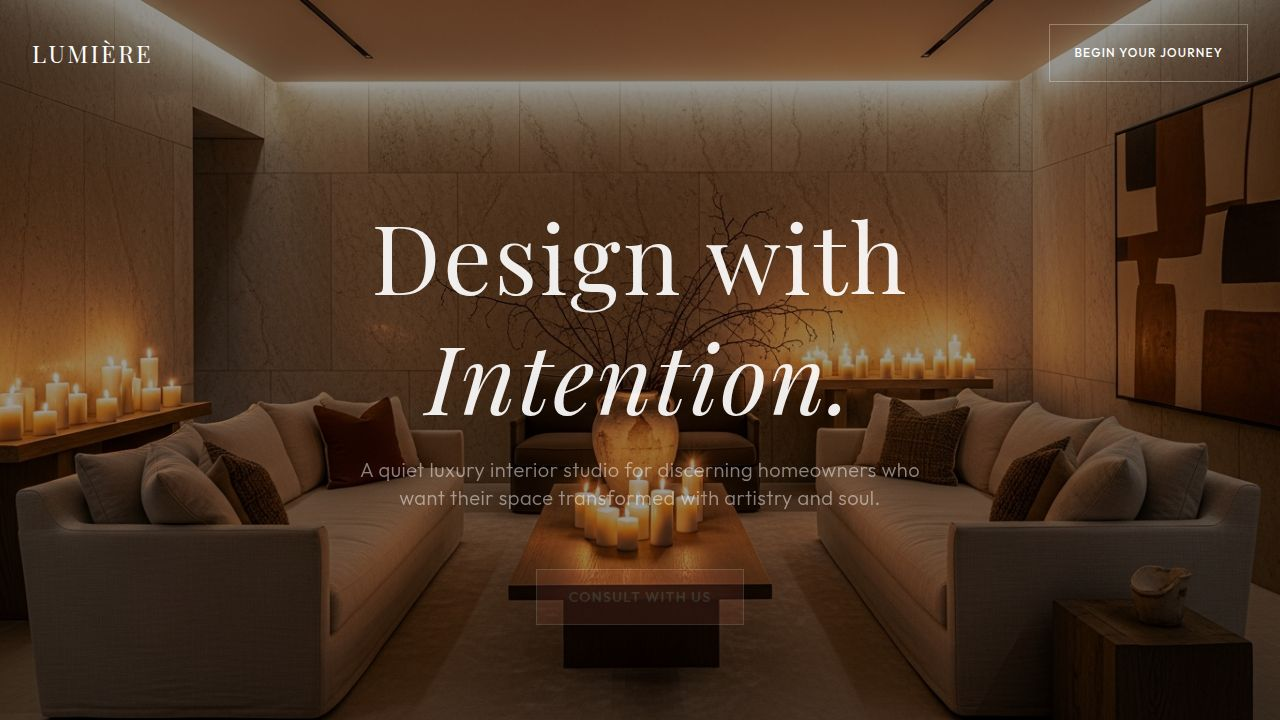
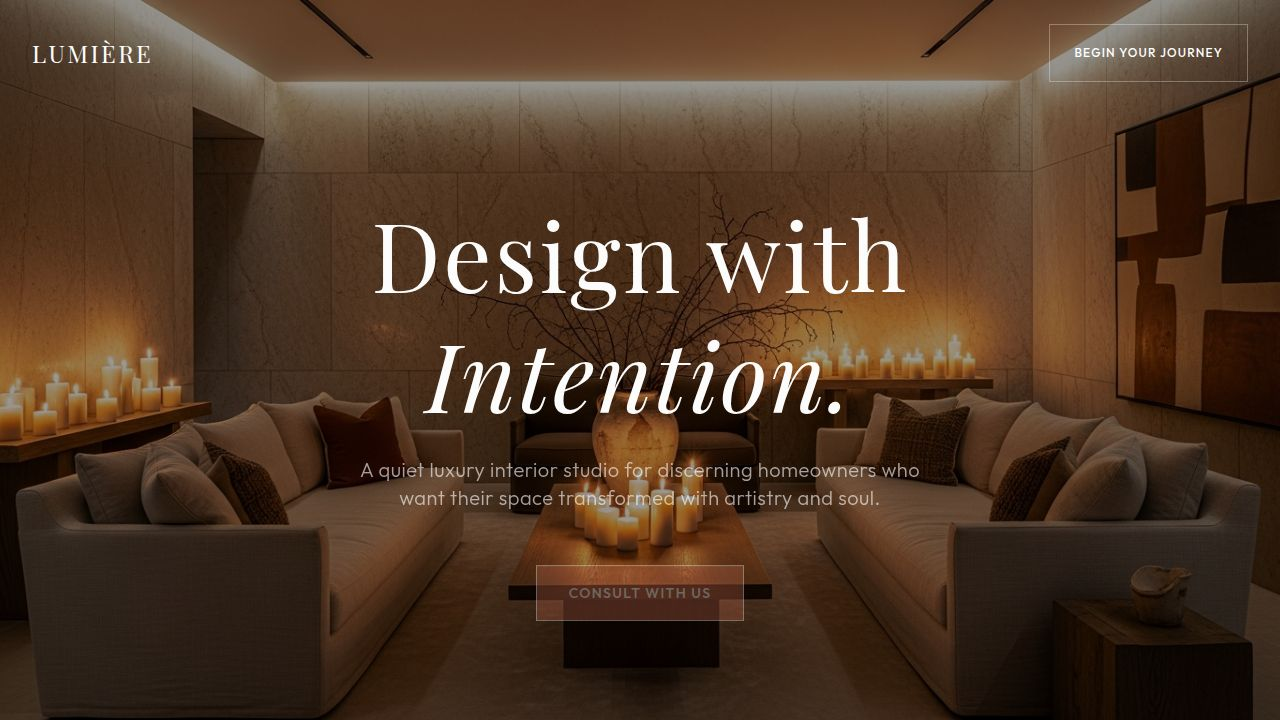
Update Boberdoo integration to use correct API endpoint and data format
Update the Boberdoo API integration to use the correct subdomain for the API endpoint and adjust the request body parameters to match the expected format, improving lead submission success rate.

Replit-Commit-Author: Agent
Replit-Commit-Session-Id: 740adb1c-378a-4e00-9fe8-df232465b6ee
Replit-Commit-Checkpoint-Type: full_checkpoint
Replit-Commit-Event-Id: d803fc4d-b53f-4b82-a37b-c5956c0e1666
Replit-Commit-Screenshot-Url: https://storage.googleapis.com/screenshot-production-us-central1/b2077ca6-2236-47a3-a586-5d26e4336df2/740adb1c-378a-4e00-9fe8-df232465b6ee/u1XT8wa
Replit-Helium-Checkpoint-Created: true

diff --git a/artifacts/api-server/src/lib/boberdoo.ts b/artifacts/api-server/src/lib/boberdoo.ts
@@ -1,7 +1,5 @@
 import { logger } from "./logger";
 
-const BOBERDOO_BASE = "https://www.boberdoo.com/index.php";
-
 function budgetToRange(budget: string): { min: string; max: string } {
   const map: Record<string, { min: string; max: string }> = {
     under_10k: { min: "0", max: "10000" },
@@ -40,41 +38,47 @@ export async function submitBoberdooLead(lead: {
 }): Promise<{ success: boolean; leadId?: string; error?: string }> {
   const apiKey = process.env.BOBERDOO_API_KEY;
   const srcId = process.env.BOBERDOO_SRC_ID;
+  const subdomain = process.env.BOBERDOO_SUBDOMAIN;
 
   if (!apiKey || !srcId) {
     logger.warn("Boberdoo credentials not configured — skipping Boberdoo sync");
     return { success: false, error: "Boberdoo credentials not configured" };
   }
 
+  if (!subdomain) {
+    logger.warn("BOBERDOO_SUBDOMAIN not set — skipping Boberdoo sync");
+    return { success: false, error: "BOBERDOO_SUBDOMAIN not configured" };
+  }
+
   const { min, max } = budgetToRange(lead.budget);
 
   const params = new URLSearchParams({
-    KEY: apiKey,
-    TYPE: "lead",
+    Key: apiKey,
     SRC: srcId,
-    FIRST_NAME: lead.firstName,
-    LAST_NAME: lead.lastName,
-    EMAIL: lead.email,
-    PHONE: lead.phone,
-    LEAD_TYPE: "Home Interior Design",
-    PROJECT_TYPE: lead.projectType,
-    ROOMS: lead.roomTypes.join(", "),
-    BUDGET_MIN: min,
-    BUDGET_MAX: max,
-    TIMELINE: timelineLabel(lead.timeline),
-    DESIGN_STYLE: lead.style,
-    SQUARE_FOOTAGE: lead.squareFootage ? String(lead.squareFootage) : "",
-    COMMENTS: lead.description,
-    HOW_HEARD: lead.hearAboutUs ?? "",
-    TCPA_OPTIN: "1",
-    TCPA_OPTIN_DATE: new Date().toISOString(),
-    TCPA_OPTIN_URL: "lumiere-interiors.replit.app",
+    First_Name: lead.firstName,
+    Last_Name: lead.lastName,
+    Email: lead.email,
+    Phone: lead.phone,
+    Project_Type: lead.projectType,
+    Rooms: lead.roomTypes.join(", "),
+    Budget_Min: min,
+    Budget_Max: max,
+    Timeline: timelineLabel(lead.timeline),
+    Design_Style: lead.style,
+    Square_Footage: lead.squareFootage ? String(lead.squareFootage) : "",
+    Comments: lead.description,
+    How_Heard: lead.hearAboutUs ?? "",
+    TCPA_Optin: "1",
+    TCPA_Optin_Date: new Date().toISOString(),
   });
 
+  const url = `https://${subdomain}.leadportal.com/api.php`;
+
   try {
-    const response = await fetch(`${BOBERDOO_BASE}?${params.toString()}`, {
+    const response = await fetch(url, {
       method: "POST",
       headers: { "Content-Type": "application/x-www-form-urlencoded" },
+      body: params.toString(),
     });
 
     const text = await response.text();
@@ -84,16 +88,23 @@ export async function submitBoberdooLead(lead: {
       return { success: false, error: `Boberdoo error ${response.status}: ${text}` };
     }
 
-    const leadIdMatch = text.match(/<LEAD_ID>(.*?)<\/LEAD_ID>/);
-    const errorMatch = text.match(/<ERROR>(.*?)<\/ERROR>/);
+    const statusMatch = text.match(/<status>(.*?)<\/status>/i);
+    const leadIdMatch = text.match(/<lead_id>(.*?)<\/lead_id>/i);
+    const errorMatch = text.match(/<error>(.*?)<\/error>/i);
 
-    if (errorMatch?.[1]) {
-      logger.error({ boberdooError: errorMatch[1] }, "Boberdoo returned an error");
+    if (errorMatch?.[1] && errorMatch[1].trim()) {
+      logger.error({ boberdooError: errorMatch[1], body: text }, "Boberdoo returned an error");
       return { success: false, error: errorMatch[1] };
     }
 
+    const status = statusMatch?.[1] ?? "unknown";
     const leadId = leadIdMatch?.[1];
-    logger.info({ leadId, response: text }, "Boberdoo lead submitted");
+
+    if (status === "Error") {
+      return { success: false, error: `Boberdoo status: Error — ${text}` };
+    }
+
+    logger.info({ leadId, status }, "Boberdoo lead submitted");
     return { success: true, leadId };
   } catch (err) {
     logger.error({ err }, "Boberdoo request threw an exception");

diff --git a/artifacts/api-server/src/routes/leads.ts b/artifacts/api-server/src/routes/leads.ts
@@ -2,6 +2,8 @@ import { Router } from "express";
 import { db, leadsTable } from "@workspace/db";
 import { SubmitLeadBody } from "@workspace/api-zod";
 import { eq, sql } from "drizzle-orm";
+import { createGhlContact } from "../lib/ghl";
+import { submitBoberdooLead } from "../lib/boberdoo";
 
 const router = Router();
 
@@ -31,9 +33,43 @@ router.post("/leads", async (req, res) => {
     })
     .returning();
 
+  const leadPayload = {
+    firstName: lead.firstName,
+    lastName: lead.lastName,
+    email: lead.email,
+    phone: lead.phone,
+    projectType: lead.projectType,
+    roomTypes: lead.roomTypes,
+    budget: lead.budget,
+    timeline: lead.timeline,
+    style: lead.style,
+    squareFootage: lead.squareFootage,
+    description: lead.description,
+    hearAboutUs: lead.hearAboutUs,
+  };
+
+  const [ghlResult, boberdooResult] = await Promise.allSettled([
+    createGhlContact(leadPayload),
+    submitBoberdooLead(leadPayload),
+  ]);
+
+  const integrations = {
+    ghl:
+      ghlResult.status === "fulfilled"
+        ? ghlResult.value
+        : { success: false, error: String(ghlResult.reason) },
+    boberdoo:
+      boberdooResult.status === "fulfilled"
+        ? boberdooResult.value
+        : { success: false, error: String(boberdooResult.reason) },
+  };
+
+  req.log.info({ integrations }, "Lead integration results");
+
   return res.status(201).json({
     ...lead,
     createdAt: lead.createdAt.toISOString(),
+    integrations,
   });
 });
 